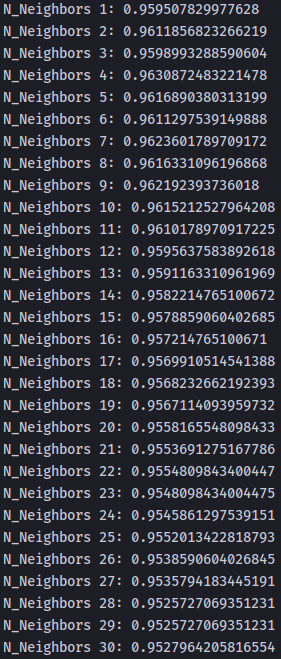
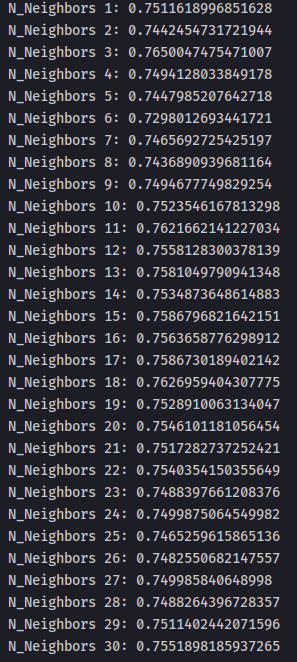
Preform under-sampling along with PCA prior to scaling

diff --git a/DifferentModels.py b/DifferentModels.py
@@ -1,5 +1,4 @@
-from sklearn.pipeline import Pipeline
-from sklearn.compose import ColumnTransformer, make_column_transformer
+from sklearn.compose import make_column_transformer
 from sklearn.impute import SimpleImputer
 from sklearn.preprocessing import StandardScaler, OneHotEncoder
 from sklearn.linear_model import LogisticRegression
@@ -7,8 +6,9 @@ from sklearn.model_selection import train_test_split
 from sklearn.metrics import confusion_matrix
 from sklearn.metrics import mean_absolute_error
 from sklearn.neighbors import KNeighborsClassifier
-from sklearn.model_selection import KFold
-from sklearn.model_selection import cross_val_score, GridSearchCV
+from sklearn.model_selection import GridSearchCV
+from  imblearn.under_sampling import RandomUnderSampler
+from sklearn.decomposition import PCA
 
 import numpy as np
 
@@ -54,40 +54,36 @@ def compute(df):
 
     c_t = make_column_transformer((OneHotEncoder(), label_features), remainder='passthrough')
 
+    scalar = StandardScaler()
+
     big_X = c_t.fit_transform(X).toarray()
 
-    x_train, x_test, y_train, y_test = train_test_split(big_X, y, test_size=0.2, random_state=0)
+    big_X = scalar.fit_transform(big_X)
 
-    sc = StandardScaler()
+    pca = PCA()
 
-    x_train = sc.fit_transform(x_train)
-    x_test = sc.transform(x_test)
+    rus = RandomUnderSampler()
+
+    reduced_x = pca.fit_transform(big_X)
+
+    undersampled_x, y= rus.fit_resample(reduced_x, y)
+
+    x_train, x_test, y_train, y_test = train_test_split(undersampled_x, y, test_size=0.2, random_state=0)
 
     logistic_regression(x_train,y_train,x_test,y_test)
-    kNN(big_X, y)
+    kNN(undersampled_x, y)
 
 
 def kNN(x, y):
-    '''
-    knn = KNeighborsClassifier(n_neighbors=5)
-
-    knn.fit(x_train,y_train)
-
-
-    print(f'Prediction score: {knn.score(x_test, y_test) * 100:.2f}%')
-    '''
-    scalar = StandardScaler()
-    X = scalar.fit_transform(x)
 
     knn = KNeighborsClassifier()
 
     grid = GridSearchCV(knn, param_grid={'n_neighbors':range(1,31)}, scoring='accuracy')
 
-    grid.fit(X,y)
+    grid.fit(x,y)
 
     for i in range(0, len(grid.cv_results_['mean_test_score'])):
         print('N_Neighbors {}: {} '.format(i+1, grid.cv_results_['mean_test_score'][i]))
-
 
 
 def logistic_regression(x_train, y_train, x_test, y_test):
